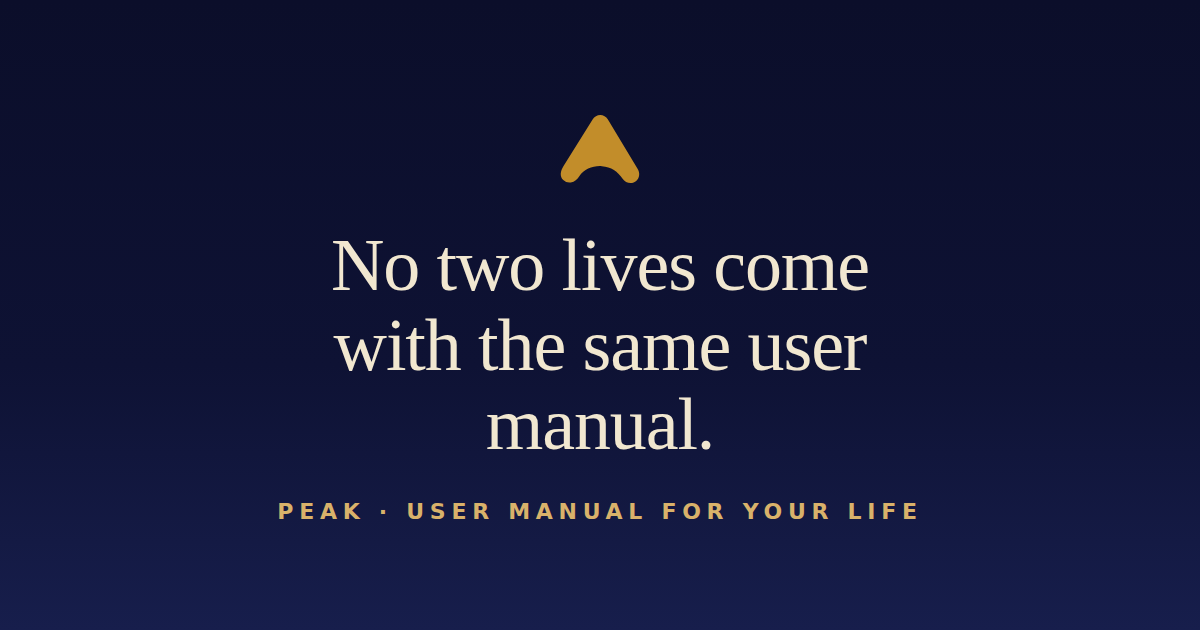
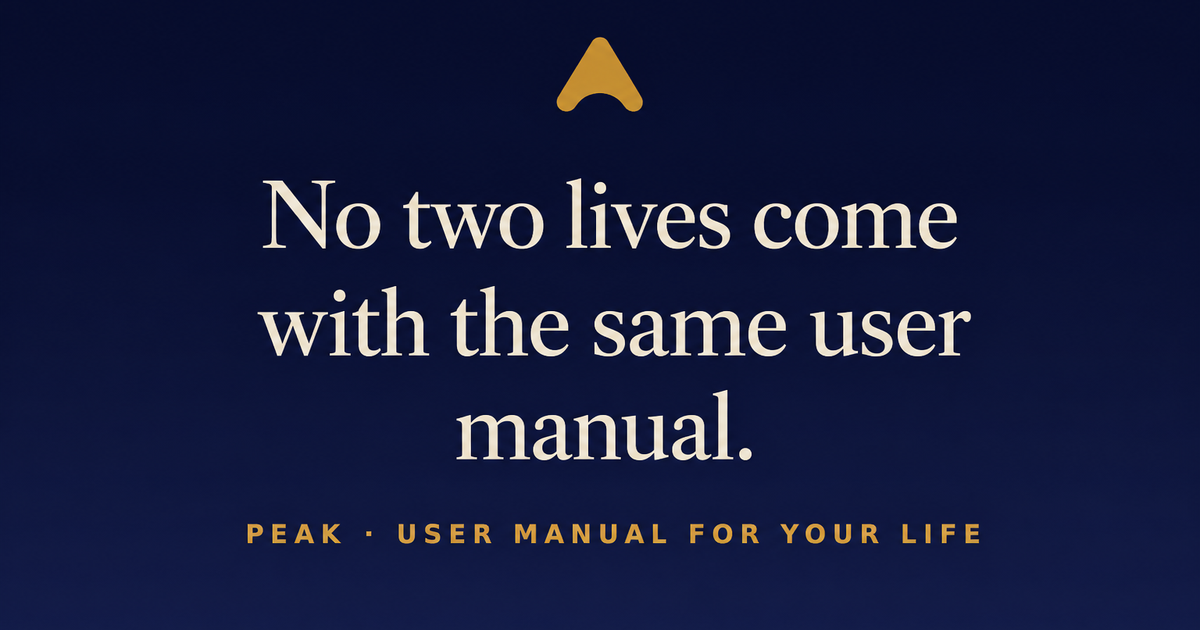
5 questions twitter image

Changed region(s): [[0.2158, 0.0603, 0.8325, 0.754], [0.3083, 0.7841, 0.8325, 0.8746], [0.185, 0.7841, 0.3083, 0.8746]]

diff --git a/src/components/site/SeoHead.tsx b/src/components/site/SeoHead.tsx
@@ -1,6 +1,6 @@
 import { useEffect } from "react";
 import type { PageSeo } from "@/lib/seo";
-import { absoluteUrl, keywordsToString } from "@/lib/seo";
+import { absoluteImageUrl, absoluteUrl, keywordsToString } from "@/lib/seo";
 
 function upsertMeta(attr: "name" | "property", key: string, content: string) {
   const selector = `meta[${attr}="${key}"]`;
@@ -24,8 +24,17 @@ function upsertLink(rel: string, href: string) {
 }
 
 /** Updates document title + meta tags for the active route (SPA SEO). */
-export function SeoHead({ title, description, keywords, path, type = "website" }: PageSeo) {
+export function SeoHead({
+  title,
+  description,
+  keywords,
+  path,
+  type = "website",
+  image,
+}: PageSeo) {
   const keywordsCsv = keywordsToString(keywords);
+  const imageUrl = absoluteImageUrl(image);
+  const pageUrl = absoluteUrl(path);
 
   useEffect(() => {
     const prevTitle = document.title;
@@ -36,13 +45,18 @@ export function SeoHead({ title, description, keywords, path, type = "website" }
     upsertMeta("property", "og:title", title);
     upsertMeta("property", "og:description", description);
     upsertMeta("property", "og:type", type);
-    upsertMeta("property", "og:url", absoluteUrl(path));
-    upsertLink("canonical", absoluteUrl(path));
+    upsertMeta("property", "og:url", pageUrl);
+    upsertMeta("property", "og:image", imageUrl);
+    upsertMeta("name", "twitter:card", "summary_large_image");
+    upsertMeta("name", "twitter:title", title);
+    upsertMeta("name", "twitter:description", description);
+    upsertMeta("name", "twitter:image", imageUrl);
+    upsertLink("canonical", pageUrl);
 
     return () => {
       document.title = prevTitle;
     };
-  }, [title, description, keywordsCsv, path, type]);
+  }, [title, description, keywordsCsv, path, type, imageUrl, pageUrl]);
 
   return null;
 }

diff --git a/src/lib/seo.ts b/src/lib/seo.ts
@@ -17,6 +17,9 @@ export const PRODUCT_SEO_KEYWORDS = [
   "rashi chart",
 ] as const;
 
+/** Default share image (1200×630) for Open Graph + Twitter cards. */
+export const DEFAULT_OG_IMAGE = "/home/og.png";
+
 export type PageSeo = {
   title: string;
   description: string;
@@ -24,11 +27,19 @@ export type PageSeo = {
   path: string;
   /** Open Graph type — defaults to website */
   type?: "website" | "article";
+  /** Absolute or site-relative image URL for og/twitter cards */
+  image?: string;
 };
 
 export function absoluteUrl(path: string): string {
   const normalized = path.startsWith("/") ? path : `/${path}`;
   return `https://${SITE.domain}${normalized === "/" ? "" : normalized}`;
+}
+
+export function absoluteImageUrl(image?: string): string {
+  if (!image) return absoluteUrl(DEFAULT_OG_IMAGE);
+  if (/^https?:\/\//i.test(image)) return image;
+  return absoluteUrl(image);
 }
 
 export function keywordsToString(keywords: string[]): string {

diff --git a/index.html b/index.html
@@ -45,6 +45,13 @@
     <meta property="og:title" content="Peak: Realise your Peak Potential" />
     <meta property="og:description" content="Jyotisha, made practical. Hour-by-hour guidance and pattern-aware goal coaching from India." />
     <meta property="og:type" content="website" />
+    <meta property="og:url" content="https://peaklife.me" />
+    <meta property="og:image" content="https://peaklife.me/home/og.png" />
+
+    <meta name="twitter:card" content="summary_large_image" />
+    <meta name="twitter:title" content="Peak: Realise your Peak Potential" />
+    <meta name="twitter:description" content="Jyotisha, made practical. Hour-by-hour guidance and pattern-aware goal coaching from India." />
+    <meta name="twitter:image" content="https://peaklife.me/home/og.png" />
   </head>
 
   <body>

diff --git a/src/lib/site.ts b/src/lib/site.ts
@@ -61,7 +61,7 @@ export const PAYMENTS_REFUNDS_FAQS = [
   {
     question: "Refund policy",
     answer:
-      "We do not offer refunds once payment is made. We provide a free trial of 10 questions and 3 days of personalized reports so you can evaluate our service before subscribing.",
+      "We do not offer refunds once payment is made. We provide a free trial of 5 questions and 3 days of personalized reports so you can evaluate our service before subscribing.",
   },
 ] as const;
 

diff --git a/src/pages/Checkout.tsx b/src/pages/Checkout.tsx
@@ -174,7 +174,7 @@ const checkoutFaqs = [
   {
     question: "Refund policy",
     answer:
-      "We do not offer refunds once payment is made. We provide a free trial of 10 questions and 3 days of personalized reports so you can evaluate our service before subscribing.",
+      "We do not offer refunds once payment is made. We provide a free trial of 5 questions and 3 days of personalized reports so you can evaluate our service before subscribing.",
   },
 ];
 

diff --git a/scripts/generate-og.py b/scripts/generate-og.py
@@ -1,0 +1,44 @@
+"""Normalize Peak Twitter/OG share image to public/home/og.png (1200×630).
+
+Usage:
+  python scripts/generate-og.py [source.png]
+
+If no source is given, re-crops the existing public/home/og.png in place.
+Source can be any larger generated card; it will be cover-cropped to 1200×630.
+"""
+
+from __future__ import annotations
+
+import sys
+from pathlib import Path
+
+from PIL import Image
+
+ROOT = Path(__file__).resolve().parents[1]
+OUT = ROOT / "public" / "home" / "og.png"
+W, H = 1200, 630
+
+
+def cover_crop(im: Image.Image, tw: int, th: int) -> Image.Image:
+    im = im.convert("RGB")
+    sw, sh = im.size
+    scale = max(tw / sw, th / sh)
+    nw, nh = int(sw * scale + 0.5), int(sh * scale + 0.5)
+    im = im.resize((nw, nh), Image.Resampling.LANCZOS)
+    left = (nw - tw) // 2
+    top = (nh - th) // 2
+    return im.crop((left, top, left + tw, top + th))
+
+
+def main() -> None:
+    src = Path(sys.argv[1]) if len(sys.argv) > 1 else OUT
+    if not src.exists():
+        raise SystemExit(f"Source not found: {src}")
+    out = cover_crop(Image.open(src), W, H)
+    OUT.parent.mkdir(parents=True, exist_ok=True)
+    out.save(OUT, "PNG", optimize=True)
+    print(f"Wrote {OUT} ({out.size[0]}x{out.size[1]}, {OUT.stat().st_size} bytes)")
+
+
+if __name__ == "__main__":
+    main()
